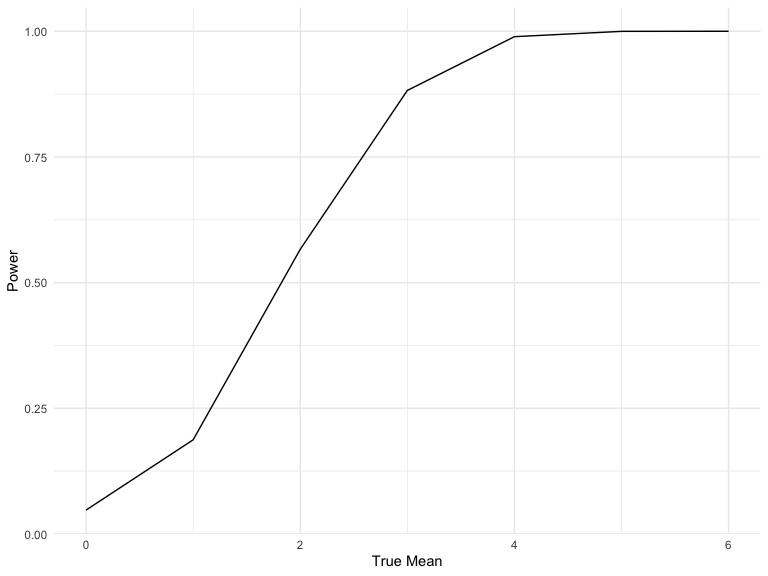
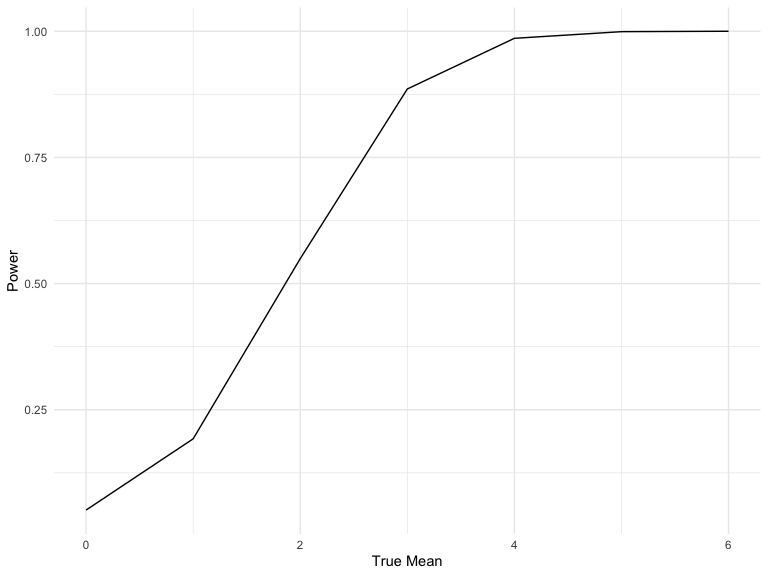
commit--final 2.0

diff --git a/p8105_hw5_zz2780.md b/p8105_hw5_zz2780.md
@@ -3,7 +3,7 @@ p8105_hw5_zz2780
 Lydia Zhang
 2022-11-15
 
-\#Problem 1
+# Problem 1
 
 Import the data
 
@@ -192,7 +192,8 @@ tidy_df %>%
 ```
 
 <img src="p8105_hw5_zz2780_files/figure-gfm/unnamed-chunk-3-1.png" width="90%" />
-\#Problem 2
+
+# Problem 2
 
 Load the data from Github Repo
 
@@ -288,15 +289,15 @@ ggplot(data2_prop_test, aes(x =reorder(city_state, desc(estimate)), y = estimate
 
 <img src="p8105_hw5_zz2780_files/figure-gfm/unnamed-chunk-8-1.png" width="90%" />
 
-\#Problem 3
+# Problem 3
 
 I used for loop to produce 5000 datasets with fixed n, mean, and sd.
 
 ``` r
-output=vector("list", 5000)
+output0=vector("list", 5000)
 
 for(i in 1:5000){
-  output[[i]]=rnorm(n=30, mean=0, sd=5)
+  output0[[i]]=rnorm(n=30, mean=0, sd=5)
 }
 ```
 
@@ -305,18 +306,34 @@ dataset, combined the list of test as dataframe test_results, and only
 selected estimate and p-value.
 
 ``` r
-test=vector("list", 5000)
+test0=vector("list", 5000)
 
 for(i in 1:5000){
-  test[[i]]=broom::tidy(t.test(output[[i]]))
+  test0[[i]]=broom::tidy(t.test(output0[[i]]))
 }
 
-test_results_0=bind_rows(test)%>%
+test_results_0=bind_rows(test0)%>%
   select(estimate, p.value)%>%
   mutate(
     true_mean=0
   )
+test_results_0
 ```
+
+    ## # A tibble: 5,000 × 3
+    ##    estimate p.value true_mean
+    ##       <dbl>   <dbl>     <dbl>
+    ##  1  1.11     0.211          0
+    ##  2  1.01     0.376          0
+    ##  3  0.432    0.601          0
+    ##  4 -0.215    0.823          0
+    ##  5  1.76     0.0557         0
+    ##  6  0.822    0.335          0
+    ##  7 -0.314    0.690          0
+    ##  8 -2.48     0.0135         0
+    ##  9 -0.00453  0.997          0
+    ## 10 -0.758    0.483          0
+    ## # … with 4,990 more rows
 
 I wrote a for loop outside the simulation of 5000 datasets for each true
 mean (1 to 6), and the final dataframe containing the estimates,
@@ -347,16 +364,16 @@ test_results_total
     ## # A tibble: 30,000 × 3
     ##    estimate p.value true_mean
     ##       <dbl>   <dbl>     <int>
-    ##  1   0.0337  0.958          1
-    ##  2   0.678   0.399          1
-    ##  3   0.586   0.598          1
-    ##  4   0.750   0.367          1
-    ##  5   2.06    0.0393         1
-    ##  6   1.71    0.0823         1
-    ##  7   2.28    0.0451         1
-    ##  8   1.06    0.295          1
-    ##  9   0.712   0.412          1
-    ## 10   0.246   0.803          1
+    ##  1   1.29   0.0937          1
+    ##  2   1.96   0.0190          1
+    ##  3   0.0827 0.945           1
+    ##  4   1.64   0.112           1
+    ##  5   3.08   0.00162         1
+    ##  6   0.540  0.601           1
+    ##  7   0.638  0.544           1
+    ##  8   1.33   0.0606          1
+    ##  9   1.33   0.0851          1
+    ## 10   2.47   0.00407         1
     ## # … with 29,990 more rows
 
 I combined the test results for mean=0 with mean of 1 to 6, created a
